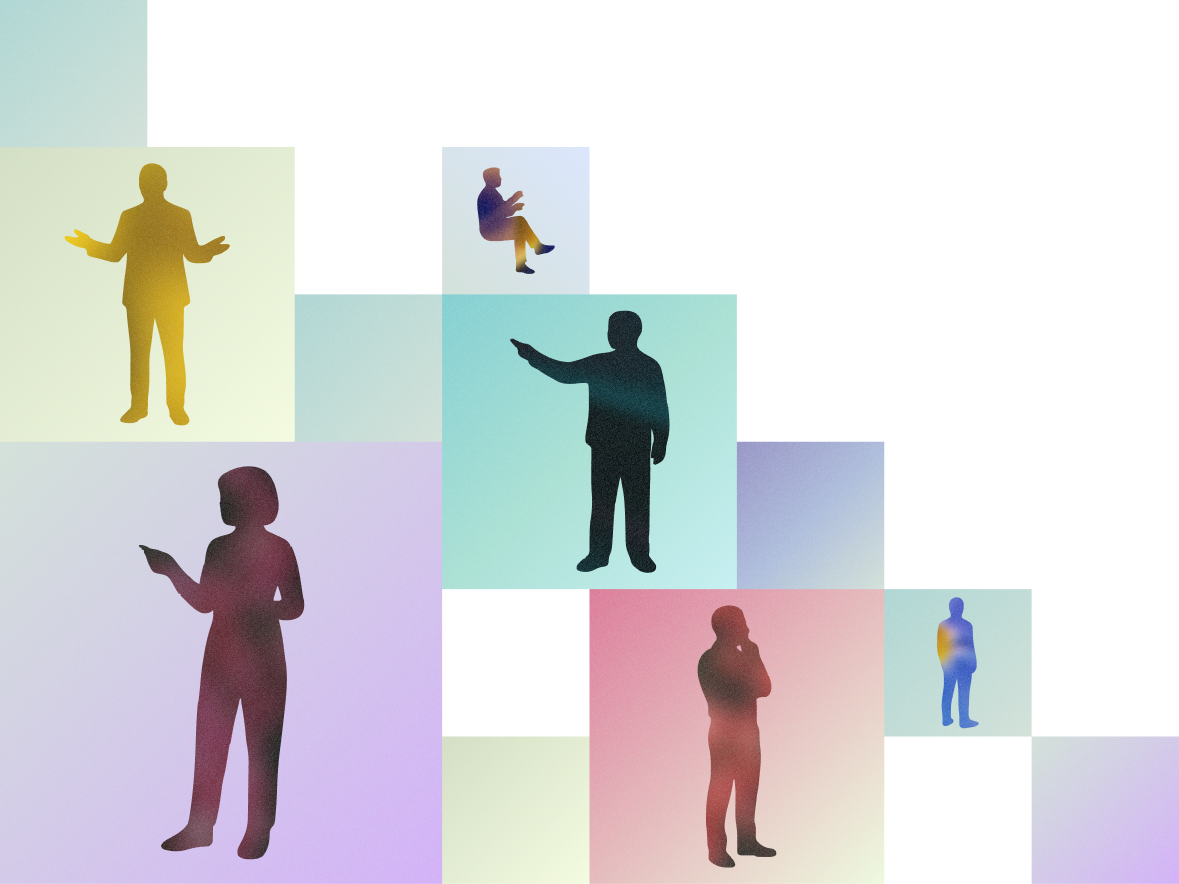
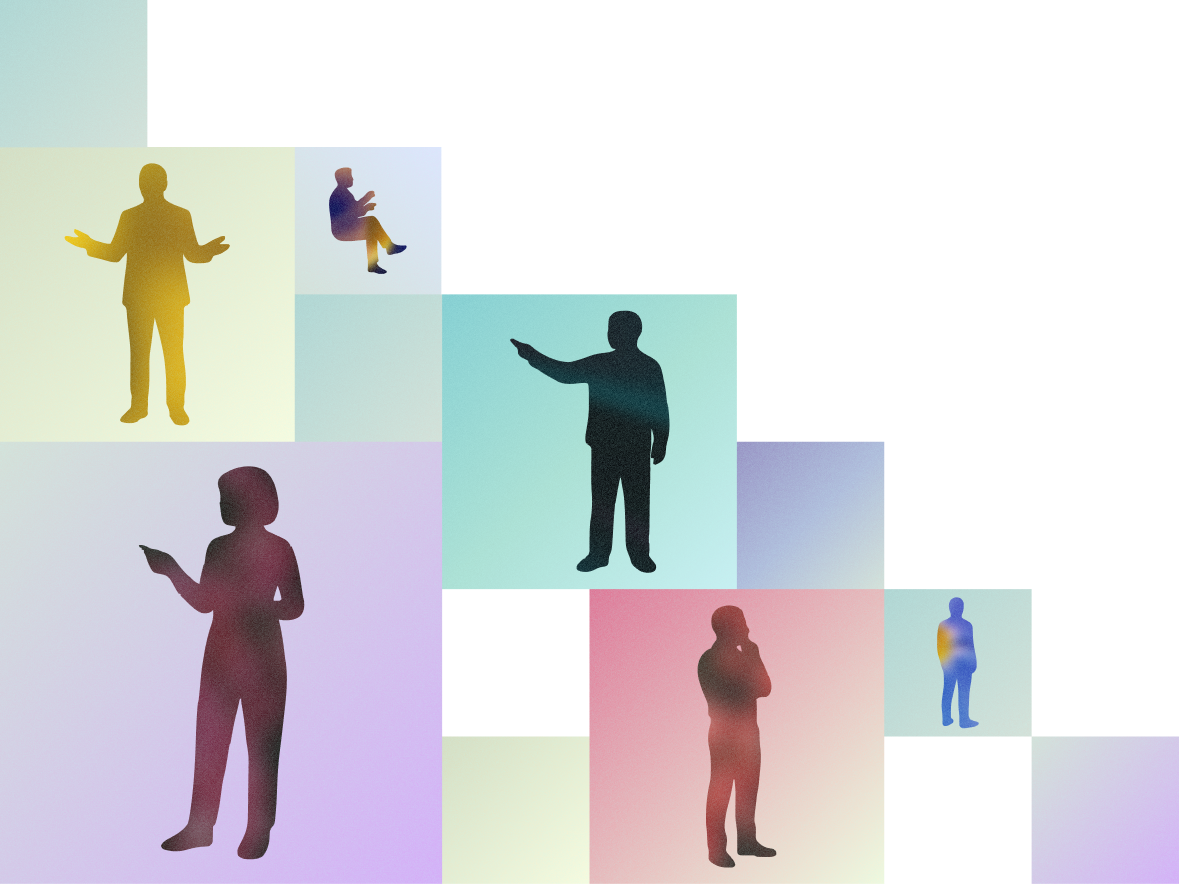
feat: update mobile about page and navigation layout

Changed region(s): [[0.2443, 0.1527, 0.5191, 0.336]]

diff --git a/knight2026/src/components/common/Smooth3DSlideshow.tsx b/knight2026/src/components/common/Smooth3DSlideshow.tsx
@@ -52,6 +52,8 @@ interface Smooth3DSlideshowProps {
   className?: string
   /** Scale cards and fan spread to stay centered within the parent width */
   fitContainer?: boolean
+  /** Override side-card tilt on mobile without changing larger viewports. */
+  mobileSideTilt?: number
 }
 
 const PERSPECTIVE = 1600
@@ -60,6 +62,7 @@ const MAX_VISIBLE = 2
 const DEPTH = 240
 /** fitContainer: compact fan below lg; desktop uses original wide spread */
 const FIT_COMPACT_MAX_WIDTH = 1024
+const MOBILE_MAX_WIDTH = 768
 const FIT_FAN_OFFSET = 0.26
 const FIT_FAN_OFFSET_BUDGET = 0.22
 const FIT_FAN_DEPTH = 1.2
@@ -151,6 +154,7 @@ export default function Smooth3DSlideshow(props: Smooth3DSlideshowProps) {
     style,
     className,
     fitContainer = false,
+    mobileSideTilt,
   } = mergedProps
 
   const [active, setActive] = useState(0)
@@ -159,6 +163,9 @@ export default function Smooth3DSlideshow(props: Smooth3DSlideshowProps) {
     typeof window !== 'undefined'
       ? window.innerWidth < FIT_COMPACT_MAX_WIDTH
       : true,
+  )
+  const [isMobileViewport, setIsMobileViewport] = useState(() =>
+    typeof window !== 'undefined' ? window.innerWidth < MOBILE_MAX_WIDTH : true,
   )
   const rootRef = useRef<HTMLDivElement>(null)
   const lockRef = useRef(false)
@@ -202,7 +209,14 @@ export default function Smooth3DSlideshow(props: Smooth3DSlideshowProps) {
     const update = () => setIsCompactViewport(!mq.matches)
     update()
     mq.addEventListener('change', update)
-    return () => mq.removeEventListener('change', update)
+    const mobileMq = window.matchMedia(`(min-width: ${MOBILE_MAX_WIDTH}px)`)
+    const updateMobile = () => setIsMobileViewport(!mobileMq.matches)
+    updateMobile()
+    mobileMq.addEventListener('change', updateMobile)
+    return () => {
+      mq.removeEventListener('change', update)
+      mobileMq.removeEventListener('change', updateMobile)
+    }
   }, [])
 
   useEffect(() => {
@@ -254,6 +268,10 @@ export default function Smooth3DSlideshow(props: Smooth3DSlideshowProps) {
     ? size.width * FIT_FAN_OFFSET
     : gap * DESKTOP_FAN_GAP_MULTIPLIER * sizeScale
   const depthStep = isCompactFit ? DEPTH * sizeScale * FIT_FAN_DEPTH : DEPTH
+  const resolvedSideTilt =
+    isMobileViewport && mobileSideTilt !== undefined
+      ? mobileSideTilt
+      : sideTilt
   const stageWidth = isCompactFit
     ? '100%'
     : Math.round(size.width + 2 * MAX_VISIBLE * offsetStep + size.width * 0.2)
@@ -322,7 +340,7 @@ export default function Smooth3DSlideshow(props: Smooth3DSlideshowProps) {
                 height: size.height,
                 borderRadius: radius,
                 overflow: 'hidden',
-                transform: `translate(-50%, -50%) translateX(${rel * offsetStep}px) translateZ(${-ax * depthStep}px) rotateY(${-rel * tilt}deg) rotateZ(${rel * sideTilt}deg) scale(${Math.max(0.4, 1 - ax * SCALE_STEP)})`,
+                transform: `translate(-50%, -50%) translateX(${rel * offsetStep}px) translateZ(${-ax * depthStep}px) rotateY(${-rel * tilt}deg) rotateZ(${rel * resolvedSideTilt}deg) scale(${Math.max(0.4, 1 - ax * SCALE_STEP)})`,
                 transition: `transform ${moveDur}s cubic-bezier(0.22, 1, 0.36, 1), opacity ${moveDur}s cubic-bezier(0.22, 1, 0.36, 1)`,
                 opacity: visible ? sideOpacity : 0,
                 cursor: 'pointer',

diff --git a/knight2026/src/components/ticket/SectionTicketHeader.tsx b/knight2026/src/components/ticket/SectionTicketHeader.tsx
@@ -4,17 +4,18 @@ import type { StaticImageData } from 'next/image'
 import ticketEarly from '@/assets/ticket/ticket-early.png'
 import ticketRegular from '@/assets/ticket/ticket-regular.png'
 import { Stagger, StaggerItem } from '@/components/motion/Reveal'
+import EventBadge from '@/components/ui/EventBadge'
 
 /** Figma section-ticket-header 562:6586 — viewport 1440, content 1160 (1200−40) */
 
 const eventDetails = (
   <>
-    September 12, Saturday
-    <br />
-    <br />
-    Computer History Museum
-    <br />
-    Mountain View, CA
+    <span className="block">September 12, Saturday</span>
+    <span className="mt-2 block md:mt-4">
+      Computer History Museum
+      <br />
+      Mountain View, CA
+    </span>
   </>
 )
 
@@ -74,13 +75,16 @@ export default function SectionTicketHeader() {
             className="w-full shrink-0 lg:w-[741px]"
             data-node-id="562:6699"
           >
-            <h2
-              id="ticket-header-heading"
-              className="type-h2 text-text md:whitespace-nowrap"
-              data-node-id="562:6700"
-            >
-              Ticket
-            </h2>
+            <div className="flex flex-col gap-4">
+              <EventBadge label="OPENS AUG 6, 12:00 PM PDT" />
+              <h2
+                id="ticket-header-heading"
+                className="type-h2 text-text md:whitespace-nowrap"
+                data-node-id="562:6700"
+              >
+                Ticket
+              </h2>
+            </div>
           </StaggerItem>
 
           <StaggerItem
@@ -120,7 +124,7 @@ export default function SectionTicketHeader() {
                       alt={option.imageAlt}
                       width={500}
                       height={220}
-                      className="absolute left-1/2 top-1/2 size-[300px] max-w-none -translate-x-1/2 -translate-y-1/2 object-cover sm:size-[400px] md:size-[500px]"
+                      className="absolute left-1/2 top-1/2 h-auto w-full max-w-[500px] -translate-x-1/2 -translate-y-1/2"
                       loading="lazy"
                       decoding="async"
                     />
@@ -131,8 +135,10 @@ export default function SectionTicketHeader() {
                     <p className="type-caption">Per person</p>
                   </div>
 
-                  <button
-                    type="button"
+                  <a
+                    href="https://www.zeffy.com/en-US/ticketing/k-night--2026"
+                    target="_blank"
+                    rel="noreferrer"
                     className={[
                       'type-button inline-flex h-10 shrink-0 items-center justify-center px-4 py-2 text-sm md:h-11 md:px-5 md:py-0 md:text-base',
                       isEarly
@@ -141,7 +147,7 @@ export default function SectionTicketHeader() {
                     ].join(' ')}
                   >
                     {option.buttonLabel}
-                  </button>
+                  </a>
                 </div>
               </StaggerItem>
             )

diff --git a/knight2026/src/components/layout/Header.tsx b/knight2026/src/components/layout/Header.tsx
@@ -3,7 +3,7 @@
 import Link from 'next/link'
 import { usePathname } from 'next/navigation'
 import { AnimatePresence, motion, useReducedMotion } from 'framer-motion'
-import { useEffect, useId, useState } from 'react'
+import { useEffect, useId, useLayoutEffect, useState } from 'react'
 import logo from '@/assets/icons/logo-bay-area.png'
 import logoMark from '@/assets/icons/logo-bay-area-mark.png'
 import arrowIcon from '@/assets/icons/icon-arrow.svg'
@@ -45,6 +45,19 @@ export default function Header() {
   const pathname = usePathname()
   const [menuOpen, setMenuOpen] = useState(false)
   const menuId = useId()
+
+  useEffect(() => {
+    const previousScrollRestoration = window.history.scrollRestoration
+    window.history.scrollRestoration = 'manual'
+
+    return () => {
+      window.history.scrollRestoration = previousScrollRestoration
+    }
+  }, [])
+
+  useLayoutEffect(() => {
+    window.scrollTo(0, 0)
+  }, [pathname])
 
   useEffect(() => {
     if (!menuOpen) return

diff --git a/knight2026/src/components/about/SectionAboutHeader.tsx b/knight2026/src/components/about/SectionAboutHeader.tsx
@@ -74,7 +74,7 @@ export default function SectionAboutHeader() {
 
         <StaggerItem
           variants={fadeUpScale}
-          className="container-images relative mx-auto flex w-full min-w-0 max-w-full shrink-0 justify-center"
+          className="container-images relative -mx-5 flex w-[calc(100%+2.5rem)] min-w-0 max-w-none shrink-0 justify-center md:mx-0 md:w-full md:max-w-full"
           data-name="container-images"
         >
           <Smooth3DSlideshow
@@ -83,8 +83,10 @@ export default function SectionAboutHeader() {
             cardHeight={400}
             radius={12}
             opacity={100}
+            sideTilt={0}
             autoplay
             autoplayDirection="rightToLeft"
+            mobileSideTilt={0}
             transition={{ duration: 0.45, delay: 1.8, ease: [0.22, 1, 0.36, 1] }}
             fitContainer
             className="mx-auto w-full"

diff --git a/knight2026/src/components/about/SectionTeam.tsx b/knight2026/src/components/about/SectionTeam.tsx
@@ -139,7 +139,7 @@ export default function SectionTeam() {
                   {group.heading}
                 </h3>
 
-                <ul className="grid w-full list-none grid-cols-1 gap-x-8 gap-y-7 min-[480px]:grid-cols-2 sm:grid-cols-3 lg:col-span-2 lg:grid-cols-4 lg:gap-x-10 lg:gap-y-8">
+                <ul className="grid w-full list-none grid-cols-2 gap-x-8 gap-y-7 sm:grid-cols-3 lg:col-span-2 lg:grid-cols-4 lg:gap-x-10 lg:gap-y-8">
                   {group.members.map((member, memberIndex) => (
                     <TeamMemberRow
                       key={`${group.heading}-${groupIndex}-${memberIndex}`}

diff --git a/knight2026/src/app/globals.css b/knight2026/src/app/globals.css
@@ -928,6 +928,13 @@
       hue-rotate(-4deg);
   }
 
+  /* Mobile gallery is full-bleed; keep its card shadows visible below the stage. */
+  @media (max-width: 767px) {
+    .section-about-header .smooth-3d-slideshow {
+      overflow: visible !important;
+    }
+  }
+
   .section-text {
     @apply layout-container;
   }
